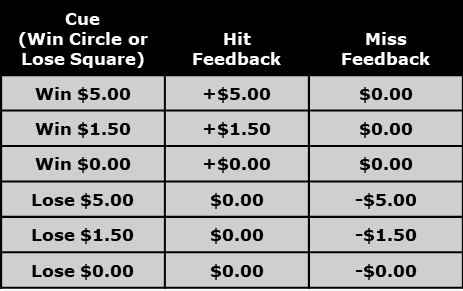
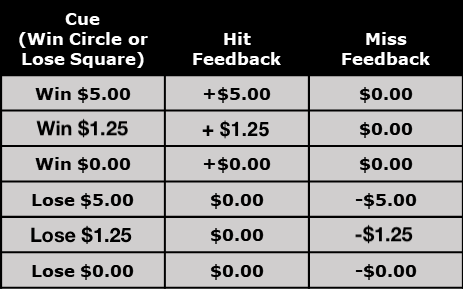
updated MID with swin currencies

diff --git a/MID_BD2_SUT/code/mid_practice.py b/MID_BD2_SUT/code/mid_practice.py
@@ -158,7 +158,7 @@ def display_instructions_file(inst_file, instructions, run):
                                             color=text_color, 
                                             flipHoriz=flipHoriz)
                 cuex_exmp = visual.ImageStim(win, pos=[-0.35,0.15], size=0.2,
-                                             image=stim_dir+"reward_high_200_british.png")
+                                             image=stim_dir+"reward_high.png")
                 fix2_exmp = visual.TextStim(win, pos=[-0.15, 0.15], text='+', 
                                             height=fontH*2, color=text_color, 
                                             flipHoriz=flipHoriz)
@@ -169,7 +169,7 @@ def display_instructions_file(inst_file, instructions, run):
                                             color=text_color, 
                                             flipHoriz=flipHoriz)
                 fdbk_exmp = visual.TextStim(win, pos=[0.65, 0.15], 
-                                            text='Hit!\n+£2.00', 
+                                            text='Hit!\n+$5.00', 
                                             height=fontH*2, 
                                             color=text_color, 
                                             flipHoriz=flipHoriz)
@@ -403,17 +403,17 @@ endf = visual.TextStim(win, pos=[0, 0], text="Thank you. This part of the experi
 # Initialize components for Routine "cue"
 cues = {
     'reward.neut': visual.ImageStim(win, size=0.3, pos=[0,0],
-                                    image=stim_dir+"reward_neut_0_british.png"),
+                                    image=stim_dir+"reward_neut.png"),
     'reward.low':  visual.ImageStim(win, size=0.3, pos=[0,0],
-                                    image=stim_dir+"reward_low_050_british.png"),
+                                    image=stim_dir+"reward_low_125.png"),
     'reward.high': visual.ImageStim(win, size=0.3, pos=[0,0],
-                                    image=stim_dir+"reward_high_200_british.png"),
+                                    image=stim_dir+"reward_high.png"),
     'loss.neut':   visual.ImageStim(win, size=0.3, pos=[0,0],
-                                    image=stim_dir+"loss_neut_0_british.png"),
+                                    image=stim_dir+"loss_neut.png"),
     'loss.low':    visual.ImageStim(win, size=0.3, pos=[0,0],
-                                    image=stim_dir+"loss_low_050_british.png"),
+                                    image=stim_dir+"loss_low_125.png"),
     'loss.high':   visual.ImageStim(win, size=0.3, pos=[0,0],
-                                    image=stim_dir+"loss_high_200_british.png")}
+                                    image=stim_dir+"loss_high.png")}
 CueClock = core.Clock()
 
 
@@ -564,7 +564,7 @@ while run < num_runs:
     "Next, a solid WHITE TRIANGLE will appear VERY BRIEFLY on the screen:\n\n \n\n \n\n \n\nTo win money or avoid losing money you need to press the button while the solid WHITE TRIANGLE is on the screen.",
     "For WIN CIRCLES, pressing the button while the solid white triangle is on the screen means you will WIN money.\n\nIf you press too late, you will MISS WINNING money.\n\n\n\n\n\n\n\n",
     "For LOSE SQUARES, pressing the button while the solid white triangle is on the screen means you will NOT LOSE money.\n\nIf you press too late, you WILL LOSE money.\n\n\n\n\n\n\n\n",
-    "Make sure to try and respond to every triangle, including for the £0.00 rounds\n\n\n\n\n\n",
+    "Make sure to try and respond to every triangle, including for the $0.00 rounds\n\n\n\n\n\n",
     "We will let you know if you pressed the button in time and if you won or lost money for that round\n\n\n\n\n\n",
     "During each round, this is the order that you will see things happen:\n\n\n\n\n\n\n\n\n\n",
     "Major points to remember:\n\n1. Do not press the button on the win circles, lose squares, or the crosses. Just respond to the SOLID WHITE TRIANGLES.\n\n2. Try to press the button EVERY time you see the solid white triangle.\n\n3. The SOLID WHITE TRIANGLE appears VERY BRIEFLY, so you will have to press the button QUICKLY when you see it.\n\n4. Things move fast in this game, so you will want to keep your finger on the button, ready to respond.",
@@ -820,15 +820,15 @@ while run < num_runs:
 
         # Update trial components
         if trial_type == 'reward.high' and trial_response == 1:
-            reward = 2.0
+            reward = 5.0
         elif trial_type == 'reward.low' and trial_response == 1:
-            reward = 0.5
+            reward = 1.25
         elif trial_type == 'reward.neut' and trial_response == 1:
             reward = 0.0
         elif trial_type == 'loss.high' and not trial_response == 1:
-            reward = -2.0
+            reward = -5.0
         elif trial_type == 'loss.low' and not trial_response == 1:
-            reward = -0.5
+            reward = -1.25
         elif trial_type == 'loss.neut' and not trial_response ==1:
             reward = 0.0
 
@@ -864,19 +864,19 @@ while run < num_runs:
 
         def trial_cash_string(r, trial_response):
             if r > 0:
-                return f"Hit!\n+£{r:.2f}"
+                return f"Hit!\n+${r:.2f}"
             elif r < 0:
-                return f"Miss!\n-£{abs(r):.2f}"
+                return f"Miss!\n-${abs(r):.2f}"
             elif trial_response == 1:
-                return f"Hit!\n£{r:.2f}"
+                return f"Hit!\n${r:.2f}"
             else:
-                return f"Miss!\n£{r:.2f}"
+                return f"Miss!\n${r:.2f}"
 
         def total_cash_string(r):
             if r < 0:
-                return f"Miss!\n£{r:.2f}"
+                return f"Miss!\n${r:.2f}"
             else:
-                return f"£{r:.2f}"
+                return f"${r:.2f}"
 
         trial_feedback.setText(trial_cash_string(reward, trial_response))
         

diff --git a/MID_BD2_SUT/code/mid_BD2.py b/MID_BD2_SUT/code/mid_BD2.py
@@ -241,7 +241,7 @@ def display_instructions_file(inst_file, instructions, run):
                                             color=text_color, 
                                             flipHoriz=flipHoriz)
                 cuex_exmp = visual.ImageStim(win, pos=[-0.35,0.15], size=0.2,
-                                             image=stim_dir+"reward_high_200_british.png")
+                                             image=stim_dir+"reward_high.png")
                 fix2_exmp = visual.TextStim(win, pos=[-0.15, 0.15], text='+', 
                                             height=fontH*2, color=text_color, 
                                             flipHoriz=flipHoriz)
@@ -251,7 +251,7 @@ def display_instructions_file(inst_file, instructions, run):
                                             height=fontH*2, color=text_color, 
                                             flipHoriz=flipHoriz)
                 fdbk_exmp = visual.TextStim(win, pos=[0.65, 0.15], 
-                                            text='Hit!\n+£2.00', 
+                                            text='Hit!\n+$5.00', 
                                             height=fontH*2, 
                                             color=text_color, 
                                             flipHoriz=flipHoriz)
@@ -393,17 +393,17 @@ endf = visual.TextStim(win, pos=[0, 0], text="Thank you. You are done with this 
 # Initialize components for Routine "cue"
 cues = {
     'reward.low':  visual.ImageStim(win, size=0.3, 
-                                    image=stim_dir+"reward_low_050_british.png"),
+                                    image=stim_dir+"reward_low_125.png"),
     'reward.high': visual.ImageStim(win, size=0.3, 
-                                    image=stim_dir+"reward_high_200_british.png"),
+                                    image=stim_dir+"reward_high.png"),
     'reward.neut': visual.ImageStim(win, size=0.3, 
-                                    image=stim_dir+"reward_neut_0_british.png"),
+                                    image=stim_dir+"reward_neut.png"),
     'loss.low':    visual.ImageStim(win, size=0.3, 
-                                    image=stim_dir+"loss_low_050_british.png"),
+                                    image=stim_dir+"loss_low_125.png"),
     'loss.high':   visual.ImageStim(win, size=0.3, 
-                                    image=stim_dir+"loss_high_200_british.png"),
+                                    image=stim_dir+"loss_high.png"),
     'loss.neut':   visual.ImageStim(win, size=0.3, 
-                                    image=stim_dir+"loss_neut_0_british.png"),
+                                    image=stim_dir+"loss_neut.png"),
     }
 CueClock = core.Clock()
 
@@ -857,19 +857,19 @@ while run < num_runs:
 
         # Update trial components
         if trial_type == 'reward.high' and trial_response == 1:
-            reward = 2.0
+            reward = 5.0
             exp.addData('trial.reward', reward)
         elif trial_type == 'reward.low' and trial_response == 1:
-            reward = 0.50
+            reward = 1.25
             exp.addData('trial.reward', reward)
         elif trial_type == 'reward.neut' and trial_response == 1:
             reward = 0.0
             exp.addData('trial.reward', reward)
         elif trial_type == 'loss.high' and not trial_response == 1:
-            reward = -2.0
+            reward = -5.0
             exp.addData('trial.reward', reward)
         elif trial_type == 'loss.low' and not trial_response == 1:
-            reward = -0.50
+            reward = -1.25
             exp.addData('trial.reward', reward)
         elif trial_type == 'loss.neut' and not trial_response == 1:
             reward = 0.0
@@ -908,21 +908,21 @@ while run < num_runs:
             
             def trial_cash_string(r, trial_response):
                 if r > 0:
-                    return f"Hit!\n+£{r:.2f}"
+                    return f"Hit!\n+${r:.2f}"
                 elif r < 0:
-                    return f"Miss!\n-£{abs(r):.2f}"
+                    return f"Miss!\n-${abs(r):.2f}"
                 elif trial_response == 1:
-                    return f"Hit!\n£{r:.2f}"
+                    return f"Hit!\n${r:.2f}"
                 elif trial_type == 'loss.neut':
-                    return f"Miss!\n-£{r:.2f}"
+                    return f"Miss!\n-${r:.2f}"
                 else:
-                    return f"Miss!\n£{r:.2f}"
+                    return f"Miss!\n${r:.2f}"
             
             def total_cash_string(r):
                 if r < 0:
-                    return f"Miss!\n£{r:.2f}"
+                    return f"Miss!\n${r:.2f}"
                 else:
-                    return f"£{r:.2f}"
+                    return f"${r:.2f}"
 
             trial_feedback.setText(trial_cash_string(reward, trial_response))        
             exp.addData("Tgt.ACC", trial_response)
